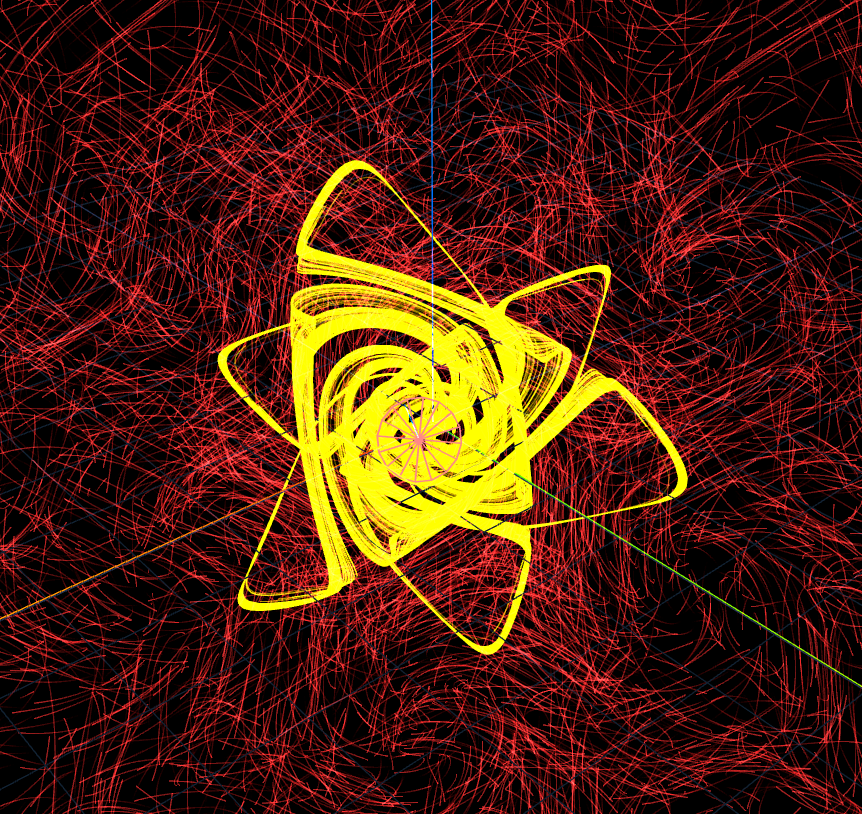
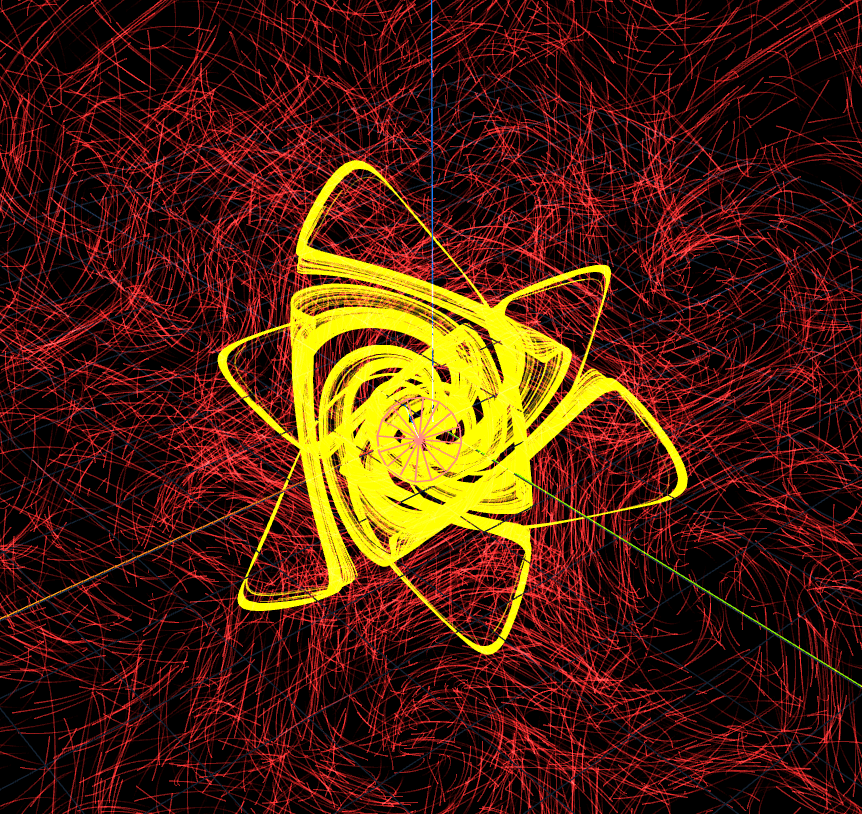
fixing the same goddamn sreen wipe/burn

diff --git a/index.html b/index.html
@@ -5,18 +5,16 @@
     <meta name="viewport" content="width=device-width, initial-scale=1.0">
     <title>Curl.gl - Advanced Vector Field Explorer</title>
     
-
-    
     <meta property="og:title" content="Curl.gl - Vector Field Explorer">
-<meta property="og:description" content="Interactive 3D fluid dynamics and chaotic attractors.">
-<meta property="og:url" content="https://darshankalita.github.io/Curl.gl/">
-<meta property="og:type" content="website">
-<meta property="og:image" content="https://darshankalita.github.io/Curl.gl/assets/Icon.png?v=2">
-<meta property="og:image:width" content="1200">
-<meta property="og:image:height" content="630">
-<meta name="twitter:card" content="summary_large_image">
+    <meta property="og:description" content="Interactive 3D fluid dynamics and chaotic attractors.">
+    <meta property="og:url" content="https://darshankalita.github.io/Curl.gl/">
+    <meta property="og:type" content="website">
+    <meta property="og:image" content="https://darshankalita.github.io/Curl.gl/assets/Icon.png?v=2">
+    <meta property="og:image:width" content="1200">
+    <meta property="og:image:height" content="630">
+    <meta name="twitter:card" content="summary_large_image">
     
-<link rel="icon" type="image/png" sizes="32x32" href="./assets/Icon.png">
+    <link rel="icon" type="image/png" sizes="32x32" href="./assets/Icon.png">
 
     <link rel="stylesheet" href="https://cdn.jsdelivr.net/npm/katex@0.16.9/dist/katex.min.css">
     <script src="https://cdn.jsdelivr.net/npm/katex@0.16.9/dist/katex.min.js"></script>
@@ -78,12 +76,12 @@
         import { GUI } from 'lil-gui';
 
         const container = document.getElementById('canvas-container');
-const renderer = new THREE.WebGLRenderer({ antialias: true, preserveDrawingBuffer: true });
-renderer.setSize(window.innerWidth, window.innerHeight);
-renderer.setPixelRatio(Math.min(window.devicePixelRatio, 2));
-renderer.autoClearColor = false; 
-renderer.setClearColor(0x051024, 1.0); // <--- THIS LINE FIXES THE BURN-IN
-container.appendChild(renderer.domElement);
+        const renderer = new THREE.WebGLRenderer({ antialias: true, preserveDrawingBuffer: true });
+        renderer.setSize(window.innerWidth, window.innerHeight);
+        renderer.setPixelRatio(Math.min(window.devicePixelRatio, 2));
+        renderer.autoClearColor = false; 
+        renderer.setClearColor(0x051024, 1.0);
+        container.appendChild(renderer.domElement);
 
         const scene = new THREE.Scene();
         const camera = new THREE.PerspectiveCamera(45, window.innerWidth / window.innerHeight, 0.1, 10000); 
@@ -282,7 +280,7 @@ container.appendChild(renderer.domElement);
 
         function updateColors(presetName) {
             const isAttractor = presetName.toLowerCase().includes('attractor');
-            const colorHex = isAttractor ? 0xffd700 : 0x00ccff; // Gold vs Cyan
+            const colorHex = isAttractor ? 0xffd700 : 0x00ccff;
             
             if (sysPrimary.matAccum.color.getHex() === colorHex) return;
 
@@ -304,19 +302,18 @@ container.appendChild(renderer.domElement);
 
         updateColors(state.preset);
         let currentScale = 1.0;
+        let wipeScreen = false;
 
         function respawnParticle(sys, i, targetX = null, targetY = null, targetZ = null) {
             let px = targetX, py = targetY, pz = targetZ;
             
             if (px === null) {
                 if (sys === sysCurl) {
-                    // Curl field ignores attractor basins and uniformly populates global space
                     const spread = 40 * currentScale; 
                     px = (Math.random() - 0.5) * spread;
                     py = (Math.random() - 0.5) * spread;
                     pz = (Math.random() - 0.5) * spread;
                 } else {
-                    // Primary field targets preset-specific basins
                     const conf = presets[state.preset];
                     const baseSpread = conf && conf.spread ? conf.spread : 40;
                     const center = conf && conf.center ? conf.center : [0,0,0];
@@ -364,7 +361,7 @@ container.appendChild(renderer.domElement);
             }
             activeTracers.forEach(disposeTracer);
             activeTracers.length = 0;
-            renderer.clear(true, true, true);
+            wipeScreen = true;
         }
 
         const raycaster = new THREE.Raycaster();
@@ -635,6 +632,13 @@ container.appendChild(renderer.domElement);
 
         function animate() {
             requestAnimationFrame(animate);
+            
+            if (wipeScreen) {
+                renderer.setClearColor(0x051024, 1.0);
+                renderer.clear(true, true, true);
+                wipeScreen = false;
+            }
+
             const delta = clock.getDelta();
             controls.update();
 